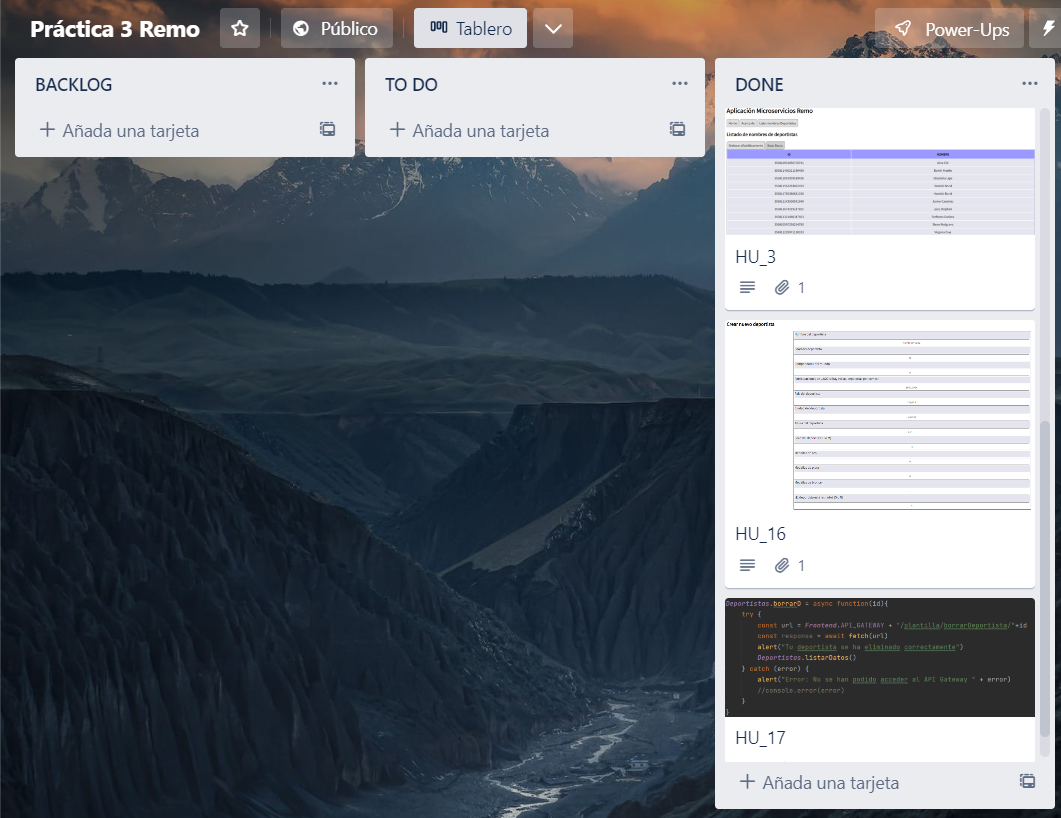
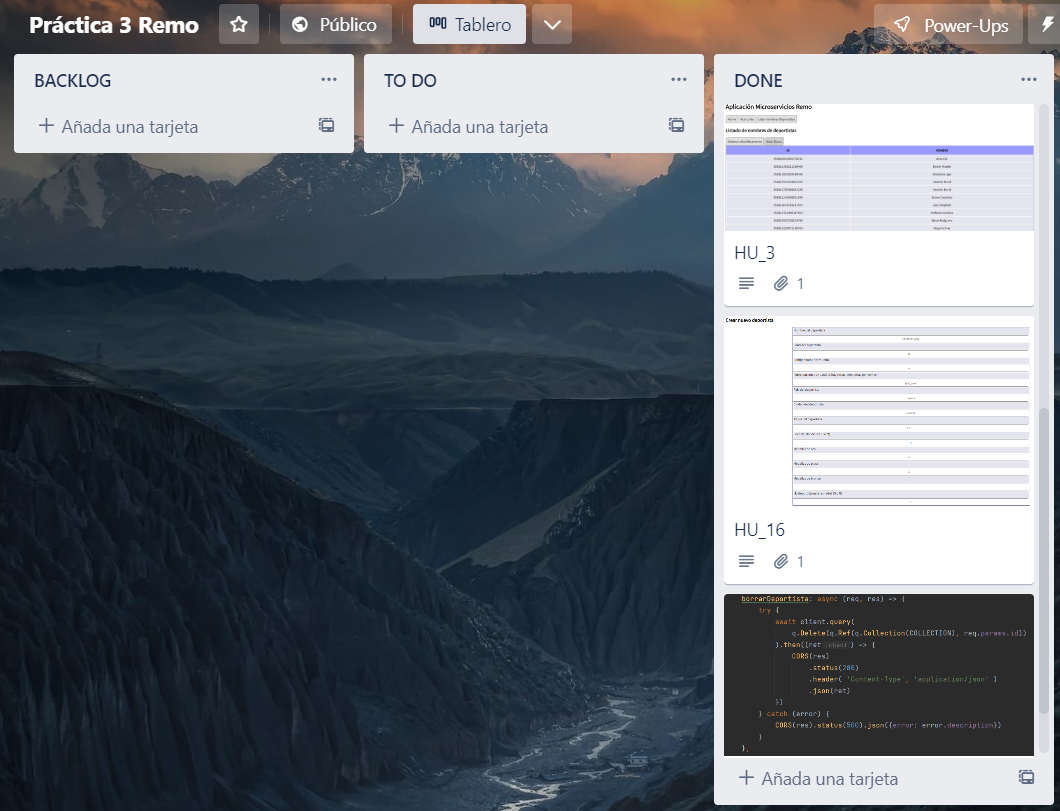
Finalizado segundo incremento

diff --git a/ms-plantilla/spec/server-spec.js b/ms-plantilla/spec/server-spec.js
@@ -100,8 +100,6 @@ describe('Servidor PLANTILLA:', () => {
                     console.log(res.body)
                     //Comprobamos que se ha añadido el deportista indicado
                     expect(res.body.data.nombre).toBe(d.nombre)
-                    id = res.body.data.id
-                    console.log("el id es:"+res.body)
                 })
                 .end((error) => {
                         error ? done.fail(error) : done();
@@ -112,7 +110,7 @@ describe('Servidor PLANTILLA:', () => {
 
         /*Elimina el último deportista de la bbdd*/
         it('Elimina una persona de la bbdd', (done) => {
-            let url = "/borrarDeportista/361004916492206284"
+            let url = "/borrarDeportista/361004916492206285"
             supertest(app)
                 .get(url)
                 .expect(200)

diff --git a/README.md b/README.md
@@ -248,3 +248,18 @@ Como se puede apreciar, este incremento se ha podido completar según lo planifi
 Las historias de usuario escogidas para este segundo incremento son la 3, la 16 y la 17
 #### Tablero Trello al iniciar el incremento
 ![trello_inc_2](./assets/icr2/Trello-inc2.PNG)
+
+#### Funcionalidades implementadas
+##### HU_3
+![HU_3](./assets/icr2/HU_3.PNG)
+##### HU_16
+![HU_16](./assets/icr2/HU_16.PNG)
+##### HU_17
+![HU_17](./assets/icr2/HU_17.PNG)
+
+#### Tablero Trello al finalizar el incremento
+![trello-inc2-fin](./assets/icr2/Trello-inc2-fin.PNG)
+
+En este incremento, al igual que en el anterior, se ha completado sin muchas incidencias.
+
+También se ha aprovechado para distribuir y mejorar visualmente las historias de usuario del incremento anterior, mejorando la interfaz del usuario a la hora de visualizar las tablas de datos y nombres de deportistas 
